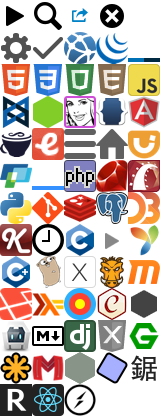
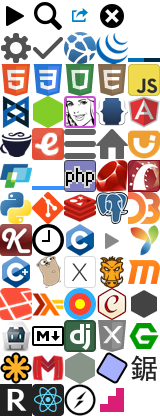
Add Modernizr documentation

Changed region(s): [[0.625, 0.9062, 0.7812, 1.0]]

diff --git a/assets/stylesheets/global/_icons.scss b/assets/stylesheets/global/_icons.scss
@@ -75,3 +75,4 @@
 ._icon-rethinkdb:before     { background-position: 0 -12rem; }
 ._icon-react:before         { background-position: -1rem -12rem; }
 ._icon-socketio:before      { background-position: -2rem -12rem; }
+._icon-modernizr:before     { background-position: -3rem -12rem; }

diff --git a/assets/stylesheets/global/_base.scss b/assets/stylesheets/global/_base.scss
@@ -147,6 +147,8 @@ td {
 
   + td { border-left: 1px solid $boxBorderLight; }
   tr:last-child > & { border-bottom: 0; }
+
+  > pre:last-child, > p:last-child, > ul:last-child, > ol:last-child { margin-bottom: 0; }
 }
 
 input {

diff --git a/assets/stylesheets/pages/_modernizr.scss b/assets/stylesheets/pages/_modernizr.scss
@@ -1,0 +1,8 @@
+._modernizr {
+  h2 { @extend %block-heading; }
+  h3 { @extend %block-label, %label-blue; }
+  h4 { font-size: 1em; }
+
+  code { @extend %label; }
+  blockquote { @extend %note; }
+}

diff --git a/assets/stylesheets/application.css.scss b/assets/stylesheets/application.css.scss
@@ -49,6 +49,7 @@
         'pages/markdown',
         'pages/maxcdn',
         'pages/mdn',
+        'pages/modernizr',
         'pages/moment',
         'pages/mongoose',
         'pages/nginx',

diff --git a/lib/docs/filters/modernizr/entries.rb b/lib/docs/filters/modernizr/entries.rb
@@ -1,0 +1,36 @@
+module Docs
+  class Modernizr
+    class EntriesFilter < Docs::EntriesFilter
+      def additional_entries
+        entries = []
+
+        css('h3[id]').each do |node|
+          next unless name = node.content.strip[/\AModernizr\.\w+\(\)/]
+          entries << [name, node['id'], 'Modernizr']
+        end
+
+        css('section[id]').each do |node|
+          next unless heading = node.at_css('h3')
+          next unless name = heading.content.strip[/\A(Modernizr\.)?\w+\(\)/]
+
+          heading['id'] = node['id']
+          node.remove_attribute('id')
+
+          name.prepend('Modernizr.') unless name.start_with?('Modernizr')
+          entries << [name, heading['id'], 'Modernizr']
+        end
+
+        css('h4[id^="features-"] + table').each do |table|
+          type = table.previous_element.content.strip
+          type << ' features' unless type.end_with?('features')
+
+          table.css('tbody th[id]').each do |node|
+            entries << [node.content, node['id'], type]
+          end
+        end
+
+        entries
+      end
+    end
+  end
+end

diff --git a/lib/docs/scrapers/modernizr.rb b/lib/docs/scrapers/modernizr.rb
@@ -1,0 +1,19 @@
+module Docs
+  class Modernizr < UrlScraper
+    self.name = 'Modernizr'
+    self.type = 'modernizr'
+    self.version = '2.8.3'
+    self.base_url = 'http://modernizr.com/docs/'
+
+    html_filters.push 'modernizr/entries', 'modernizr/clean_html', 'title'
+
+    options[:title] = 'Modernizr'
+    options[:container] = '#documentation'
+    options[:skip_links] = true
+
+    options[:attribution] = <<-HTML
+      &copy; 2009&ndash;2014 Modernizr<br>
+      Licensed under the MIT License.
+    HTML
+  end
+end

diff --git a/lib/docs/filters/modernizr/clean_html.rb b/lib/docs/filters/modernizr/clean_html.rb
@@ -1,0 +1,21 @@
+module Docs
+  class Modernizr
+    class CleanHtmlFilter < Filter
+      def call
+        css('pre').each do |node|
+          node.content = node.content
+        end
+
+        css('> div', '> section').each do |node|
+          node.before(node.children).remove
+        end
+
+        css('h3, h4').each do |node|
+          node.name = node.name.sub(/\d/) { |i| i.to_i - 1 }
+        end
+
+        doc
+      end
+    end
+  end
+end
